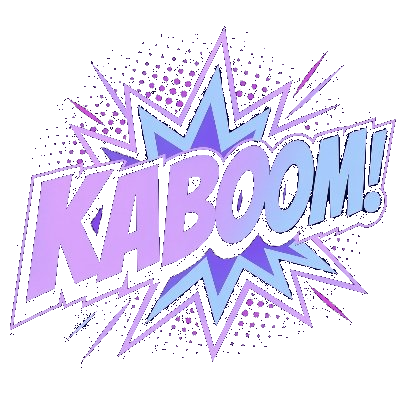
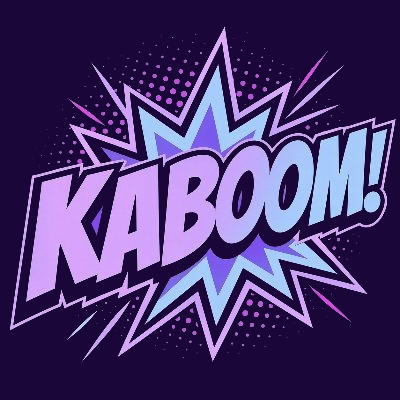
README + HANDOFF: current links and K Points; opaque link-preview image
- README: live page links (play, vault, leaderboard, referrals, logs),
  status and vault-state JSON, Solscan program link, K Points section,
  min bet 0.01 SOL.
- HANDOFF: 2026-11-05 state (vrf cap 5000 aggregate, vault ~1 SOL, K Points,
  LP K Points, payout-speed fixes, real-game check, open owner decisions).
- og.png flattened onto the brand background: link previews showed the
  transparent logo on white. Metadata points at /og.png?v=2 to refresh caches.

diff --git a/apps/web/src/app/layout.tsx b/apps/web/src/app/layout.tsx
@@ -36,13 +36,13 @@ export const metadata: Metadata = {
     // Fresh URL (was /kaboom-logo.png) — busts Telegram/X/Discord OG caches
     // that pinned the older brand mark. The file is identical, just at a
     // dedicated OG path.
-    images: [{ url: "/og.png", width: 400, height: 400, alt: "PlayKaboom" }],
+    images: [{ url: "/og.png?v=2", width: 400, height: 400, alt: "PlayKaboom" }],
   },
   twitter: {
     card: "summary_large_image",
     title: "PlayKaboom",
     description: "A Fully Onchain Minesweeper Style Game with Community owned Defi Vault!",
-    images: ["/og.png"],
+    images: ["/og.png?v=2"],
   },
   robots: { index: true, follow: true },
 };

diff --git a/HANDOFF.md b/HANDOFF.md
@@ -1,6 +1,6 @@
 # PlayKaboom — Session Handoff
 
-A self-contained snapshot to pick up where the last session left off. Top section refreshed **2026-11-05** (relaunch); the rest was refreshed **2026-08-09** (security review, off-chain hardening deployed, footer + Terms rewrite). Full session-by-session log lives in `records.txt` (local-only, gitignored), durable lessons in `learnings.txt` (same).
+A self-contained snapshot to pick up where the last session left off. Top section refreshed **2026-11-05** (relaunch, K Points); the rest was refreshed **2026-08-09** (security review, off-chain hardening deployed, footer + Terms rewrite). Full session-by-session log lives in `records.txt` (local-only, gitignored), durable lessons in `learnings.txt` (same).
 
 ## STATUS — 2026-11-05: RELAUNCHED (Pinocchio, VRF-only, Railway API + Vercel frontend)
 
@@ -19,7 +19,9 @@ A self-contained snapshot to pick up where the last session left off. Top sectio
 | `vault.treasury` | `qouUoXTxNrFYw9DA7yCAnPXfAi9ypNWq2HPf5UMF9WG` | the deployer, temporarily |
 | Vault V2 State | `Gtkn8TeTHgMF6bhEYmXy3cDcmmQyjbbY3WHXtY3td8Ue` | |
 | VRF validator | `MAS1Dt9qreoRMQ14YQuhg8UTZMMzDdKhmkZMECCzk57` | `as.magicblock.app` |
-| `vrf_max_payout_bps` | 1000 (10%) | |
+| `vrf_max_payout_bps` | 5000 (50%) | an AGGREGATE cap over every open VRF game, not per game; set by the owner 2026-11-05 |
+| Min bet (UI) | 0.01 SOL | `GAME_CONFIG.MIN_BET_SOL`; MagicBlock keeps ~0.003 SOL per delegated round on top |
+| Vault | ~1.075 SOL on 2026-11-05 | owner rule: keep the vault at about 1 SOL; live values at `/api/vault/state` |
 
 **House key.** A raw keypair, held only as the sealed Railway variable `HOUSE_SECRET_KEY` on the kaboom-web service (`apps/web/src/server/house-signer.ts`). It can only do bounded cleanup and settlement: VRF settle, force-undelegate and refund, legacy wind-down, and LP auto-complete. Because the program is VRF-only, it cannot start a commit-reveal game. It is never on Vercel and never in the repo.
 
@@ -32,6 +34,18 @@ A self-contained snapshot to pick up where the last session left off. Top sectio
 | Retired | Supabase, Turnkey, the API on Vercel |
 
 Runbook: `pinocchio/MIGRATION/DEPLOY.md` (DNS stays on Vercel; there is no DNS move). Secrets inventory: `docs/security/secrets.md`.
+
+**Shipped 2026-11-05** (all live on Vercel + Railway and pushed):
+- **K Points.** Every settled round earns `bet × edge ÷ 0.00002 SOL` (1 per 0.001 SOL at 2%), win or lose, from the existing `points_ledger` engine (`apps/web/src/server/points.ts`). `/api/leaderboard` returns `kPoints` (the `points_balance` total) on every row of every view, and the leaderboard shows a K POINTS column. Never expose `points_ledger` rows directly.
+- **LP K Points.** Cron pass `lp-points` (`apps/web/src/server/cron/lp-points-pass.ts`) credits each user LP position `K_POINTS_LP_PER_SOL_HOUR` (default 10) per SOL of live position value once per UTC hour, with exact carry in `lp_points_accrual` (migration `20261105000002_lp_points.sql`). A pending withdrawal earns 0 for that hour and resumes the hour after a cancel; house and seed units never earn; missed hours are not back-filled.
+- **Payout speed.** House txs use a confirmed blockhash and retry the empty-logs preflight case; `/api/vrf/settle` polls its own read before answering; the client retries settle on 409/429/5xx; the RPC proxy has its own 300/10 s budget per client (client IP forwarded by the Vercel middleware with a shared secret).
+- **Session keys** are kept until their gas sweep is confirmed; the LP deposit cap applies the house-share floor; `/api/verify` reports refunds; maintenance banner removed; link-preview image `og.png` is opaque on the brand background (`?v=2`).
+- **Real-money check:** 30 rounds (1 mine, 0.01 SOL): every payout, VRF replay, treasury cut and referral accrual matched the chain exactly; the referrer's claim paid in full.
+
+Open owner decisions:
+- `min_house_share_bps` is 50% with tiny house units, so the LP max deposit is 0 (LP deposits revert). Lower it or keep LP closed.
+- Whether to show MagicBlock's ~0.003 SOL per-round fee in the game UI.
+- Frontend shakedown (test browser + one Privy email login) still to run; MAX button and mine-count selection by vault capacity still pending.
 
 Owner to-dos:
 - The old Turnkey house wallet `7exwTWn1ChVyQZF5mTxZM1UNrPpj1nQKhhvXztR4prQp` is retired but still holds ~0.97 SOL. Sweep it from the Turnkey dashboard.

diff --git a/README.md b/README.md
@@ -2,7 +2,7 @@
 
 > A fully on-chain Minesweeper-style game with a community-owned DeFi vault, built on Solana.
 
-[![Live](https://img.shields.io/badge/live-playkaboom.gg-a4c9ff?style=flat-square)](https://www.playkaboom.gg)
+[![Live](https://img.shields.io/badge/live-playkaboom.gg-a4c9ff?style=flat-square)](https://playkaboom.gg)
 [![Status](https://img.shields.io/badge/status-status.playkaboom.gg-22c55e?style=flat-square)](https://status.playkaboom.gg)
 [![Solana](https://img.shields.io/badge/solana-mainnet--beta-9945FF?style=flat-square&logo=solana&logoColor=white)](#architecture)
 [![MagicBlock](https://img.shields.io/badge/rollup-MagicBlock%20ER%20%2B%20VRF-ff6b35?style=flat-square)](https://magicblock.gg/)
@@ -28,7 +28,8 @@ keeps only the instructions that wind down old ones.
 > `Ednka8zjoYbE7T6iF9NHHXotaXCrbJn4Mta376cunhju` (a Pinocchio port, VRF-only). The old program
 > `9Xip2LRCgC8ucvkYuBQ8jzEsPV74YBnFG1BBeZa98QSh` was closed on 2026-10-05. Turnkey and Supabase
 > are retired: the API, its database and the relay run on Railway, and the frontend runs on
-> Vercel. The live addresses and setup are in [HANDOFF.md](HANDOFF.md).
+> Vercel. Minimum bet 0.01 SOL. **K Points** (loyalty points for play and vault deposits) are
+> live on the leaderboard. The live addresses and setup are in [HANDOFF.md](HANDOFF.md).
 
 ---
 
@@ -36,11 +37,17 @@ keeps only the instructions that wind down old ones.
 
 | | |
 |---|---|
-| Web app | <https://www.playkaboom.gg> |
-| Public status | <https://status.playkaboom.gg> |
+| Web app | <https://playkaboom.gg> |
+| Play | <https://playkaboom.gg/play> |
+| LP vault | <https://playkaboom.gg/vault> |
+| Leaderboard (K Points) | <https://playkaboom.gg/leaderboard> |
+| Referrals | <https://playkaboom.gg/referrals> |
+| Game log | <https://playkaboom.gg/logs> |
+| Public status | <https://status.playkaboom.gg> (JSON: <https://status.playkaboom.gg/api/status>) |
+| Vault state (JSON) | <https://playkaboom.gg/api/vault/state> |
 | Cluster | `mainnet-beta` |
 | Rollup | MagicBlock ephemeral rollup, pinned validator + pinned VRF oracle queue |
-| Program | `Ednka8zjoYbE7T6iF9NHHXotaXCrbJn4Mta376cunhju` (Pinocchio, VRF-only) |
+| Program | [`Ednka8zjoYbE7T6iF9NHHXotaXCrbJn4Mta376cunhju`](https://solscan.io/account/Ednka8zjoYbE7T6iF9NHHXotaXCrbJn4Mta376cunhju) (Pinocchio, VRF-only) |
 
 The only key the server holds is the house key: a raw keypair kept only as a sealed variable
 on the Railway API service (never on Vercel, never in the repo). It is confined to bounded
@@ -224,6 +231,22 @@ stay live during the cooldown, still earning or losing.
 
 ---
 
+## K Points
+
+K Points are PlayKaboom's loyalty points. They are kept in the API's database, not on chain,
+and each player's lifetime total is the **K POINTS** column on the
+[leaderboard](https://playkaboom.gg/leaderboard).
+
+| Earned by | Rate |
+|---|---|
+| Playing | 1 K Point per 0.001 SOL bet on every settled round, win or lose (at the 2% house edge; scales with the edge the round was played at). Refunded rounds earn 0. |
+| LP vault | 10 K Points per SOL of LP value per hour, credited hourly (UTC) with fractions carried over. A position with a pending withdrawal earns nothing until the request is cancelled. House and seed capital never earn. |
+
+Each round and each LP hour is credited once (idempotent on the transaction or hour). An hour
+in which the server did not run is not credited later.
+
+---
+
 ## Status & transparency
 
 `status.playkaboom.gg` is a public, unauthenticated health page on its own subdomain,
@@ -367,6 +390,6 @@ Report vulnerabilities via [SECURITY.md](SECURITY.md) or [@playkaboomgg](https:/
 ## Repository
 
 - Source: [github.com/penguinpecker/playkaboom](https://github.com/penguinpecker/playkaboom)
-- Live: [playkaboom.gg](https://www.playkaboom.gg) · Status: [status.playkaboom.gg](https://status.playkaboom.gg)
+- Live: [playkaboom.gg](https://playkaboom.gg) · Status: [status.playkaboom.gg](https://status.playkaboom.gg) · Leaderboard: [playkaboom.gg/leaderboard](https://playkaboom.gg/leaderboard)
 - X: [@playkaboomgg](https://x.com/playkaboomgg)
 - License: MIT
